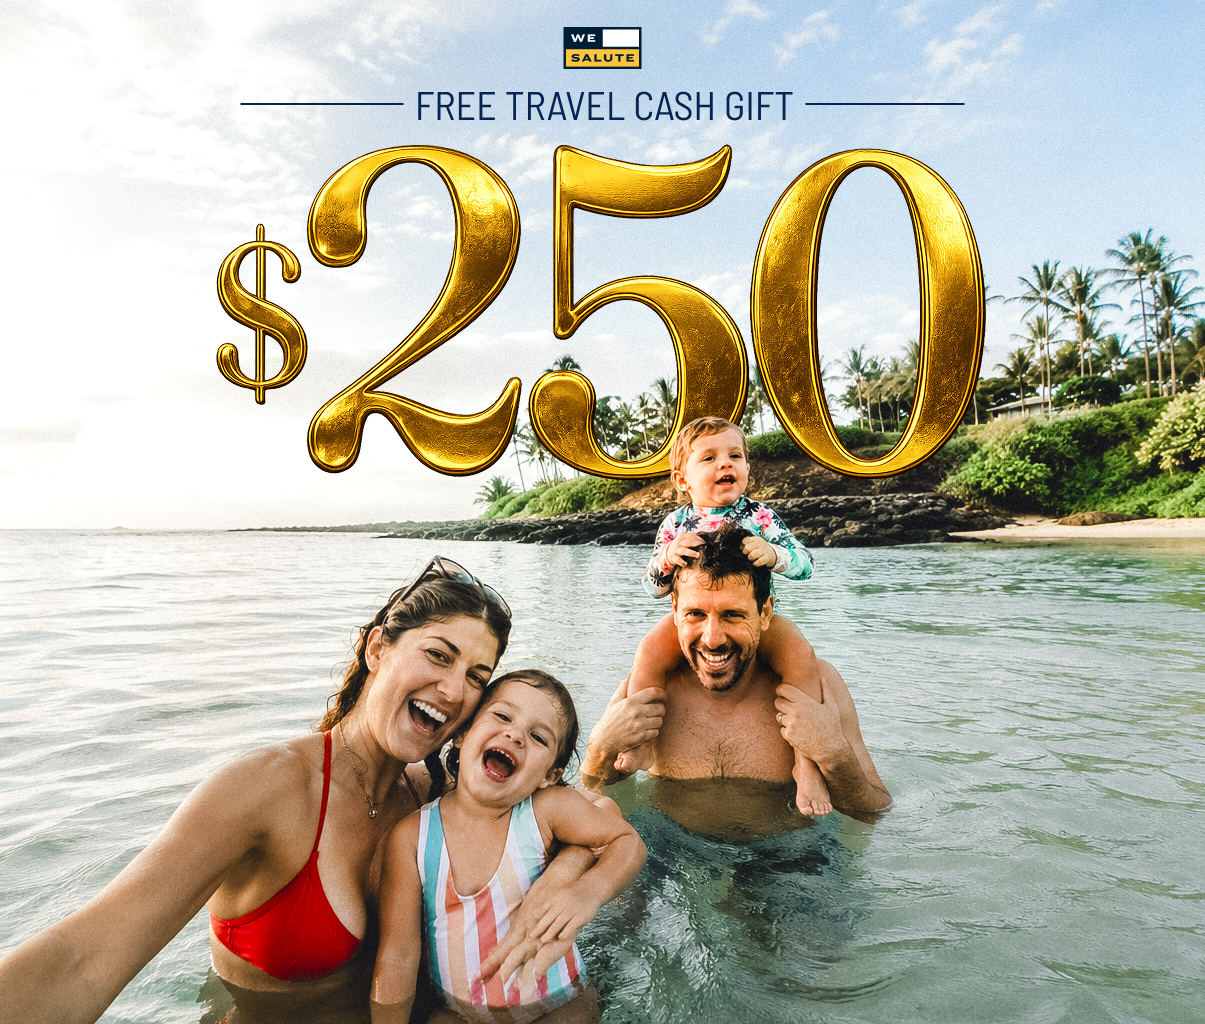
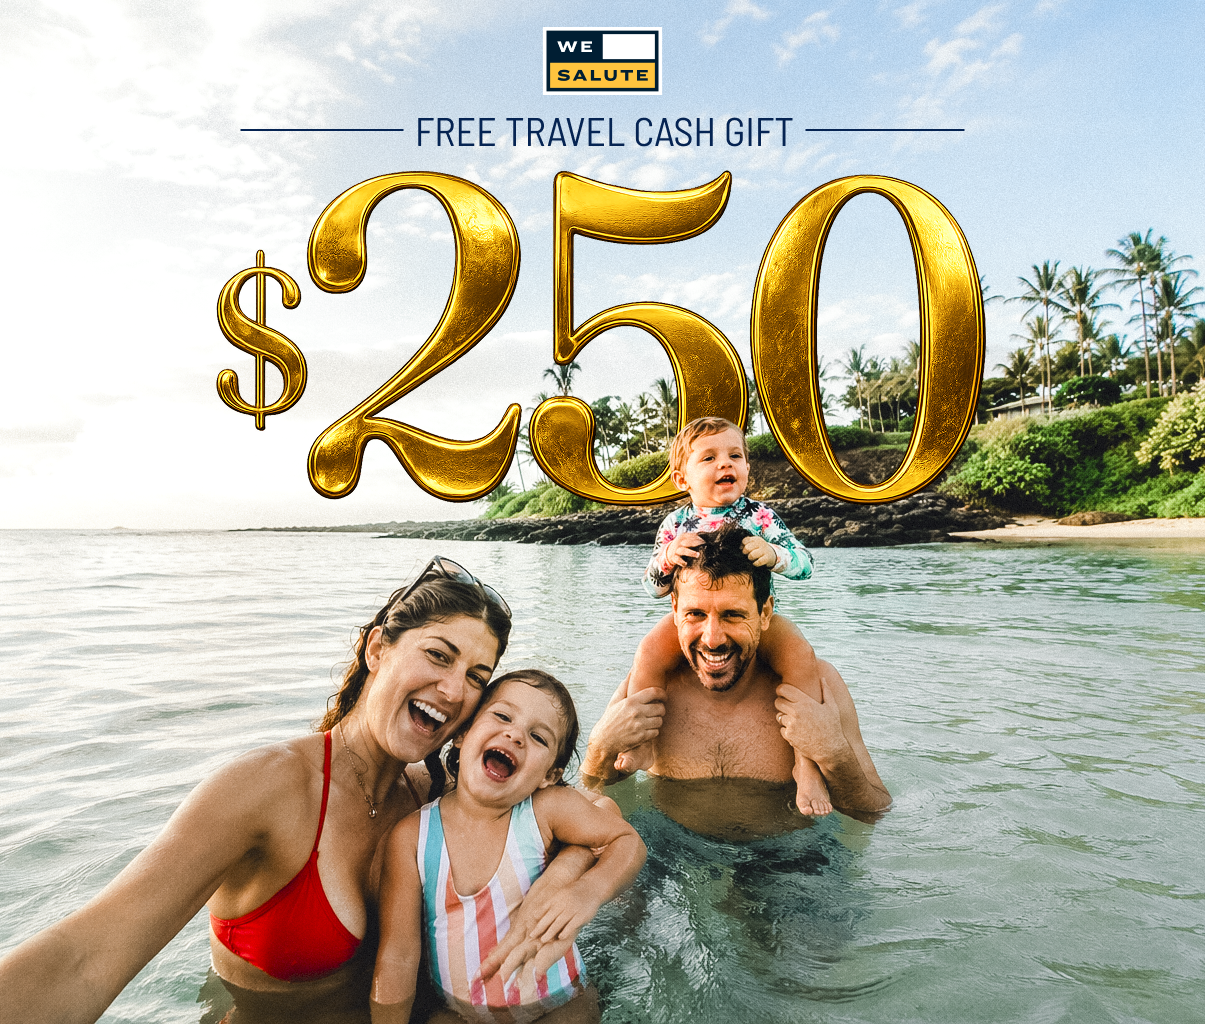
Seven polish updates
1. Replace travel cash image with updated asset (250-travel-cash-NEW.png)
2. Remove 'Offer ends Jul 4, 2026' sub-label from countdown banner
3. Remove '· Exclusive Collaboration' from hero eyebrow
4. Fix pull quote gold line overrun on desktop (alignSelf: start)
5. Remove numbered badges from Seven Communities cards
6. Convert Bloodline timeline box to standard WeSalute gold style
7. Footer: co-branded SVG logo + Instagram/Facebook/X/LinkedIn social links

https://claude.ai/code/session_01U94FxABhpk2zpK6eSU2wwN

Changed region(s): [[0.1535, 0.0, 0.829, 0.5]]

diff --git a/components/Footer.tsx b/components/Footer.tsx
@@ -1,34 +1,101 @@
-import { CoBrandLockup } from "./CoBrandLockup";
 import { Star } from "./Star";
+
+const socialLinks = [
+  {
+    label: "Instagram",
+    href: "https://www.instagram.com/wesalute",
+    icon: (
+      <svg viewBox="0 0 24 24" width={18} height={18} fill="currentColor" aria-hidden>
+        <path d="M12 2.163c3.204 0 3.584.012 4.85.07 3.252.148 4.771 1.691 4.919 4.919.058 1.265.069 1.645.069 4.849 0 3.205-.012 3.584-.069 4.849-.149 3.225-1.664 4.771-4.919 4.919-1.266.058-1.644.07-4.85.07-3.204 0-3.584-.012-4.849-.07-3.26-.149-4.771-1.699-4.919-4.92-.058-1.265-.07-1.644-.07-4.849 0-3.204.013-3.583.07-4.849.149-3.227 1.664-4.771 4.919-4.919 1.266-.057 1.645-.069 4.849-.069zm0-2.163c-3.259 0-3.667.014-4.947.072-4.358.2-6.78 2.618-6.98 6.98-.059 1.281-.073 1.689-.073 4.948 0 3.259.014 3.668.072 4.948.2 4.358 2.618 6.78 6.98 6.98 1.281.058 1.689.072 4.948.072 3.259 0 3.668-.014 4.948-.072 4.354-.2 6.782-2.618 6.979-6.98.059-1.28.073-1.689.073-4.948 0-3.259-.014-3.667-.072-4.947-.196-4.354-2.617-6.78-6.979-6.98-1.281-.059-1.69-.073-4.949-.073zm0 5.838c-3.403 0-6.162 2.759-6.162 6.162s2.759 6.163 6.162 6.163 6.162-2.759 6.162-6.163c0-3.403-2.759-6.162-6.162-6.162zm0 10.162c-2.209 0-4-1.79-4-4 0-2.209 1.791-4 4-4s4 1.791 4 4c0 2.21-1.791 4-4 4zm6.406-11.845c-.796 0-1.441.645-1.441 1.44s.645 1.44 1.441 1.44c.795 0 1.439-.645 1.439-1.44s-.644-1.44-1.439-1.44z" />
+      </svg>
+    ),
+  },
+  {
+    label: "Facebook",
+    href: "https://www.facebook.com/wesalute",
+    icon: (
+      <svg viewBox="0 0 24 24" width={18} height={18} fill="currentColor" aria-hidden>
+        <path d="M24 12.073c0-6.627-5.373-12-12-12s-12 5.373-12 12c0 5.99 4.388 10.954 10.125 11.854v-8.385H7.078v-3.47h3.047V9.43c0-3.007 1.792-4.669 4.533-4.669 1.312 0 2.686.235 2.686.235v2.953H15.83c-1.491 0-1.956.925-1.956 1.874v2.25h3.328l-.532 3.47h-2.796v8.385C19.612 23.027 24 18.062 24 12.073z" />
+      </svg>
+    ),
+  },
+  {
+    label: "X / Twitter",
+    href: "https://x.com/wesalute",
+    icon: (
+      <svg viewBox="0 0 24 24" width={18} height={18} fill="currentColor" aria-hidden>
+        <path d="M18.244 2.25h3.308l-7.227 8.26 8.502 11.24H16.17l-4.714-6.231-5.401 6.231H2.766l7.73-8.835L1.254 2.25H8.08l4.713 6.231zm-1.161 17.52h1.833L7.084 4.126H5.117z" />
+      </svg>
+    ),
+  },
+  {
+    label: "LinkedIn",
+    href: "https://www.linkedin.com/company/wesalute",
+    icon: (
+      <svg viewBox="0 0 24 24" width={18} height={18} fill="currentColor" aria-hidden>
+        <path d="M20.447 20.452h-3.554v-5.569c0-1.328-.027-3.037-1.852-3.037-1.853 0-2.136 1.445-2.136 2.939v5.667H9.351V9h3.414v1.561h.046c.477-.9 1.637-1.85 3.37-1.85 3.601 0 4.267 2.37 4.267 5.455v6.286zM5.337 7.433c-1.144 0-2.063-.926-2.063-2.065 0-1.138.92-2.063 2.063-2.063 1.14 0 2.064.925 2.064 2.063 0 1.14-.925 2.065-2.064 2.065zm1.782 13.019H3.555V9h3.564v11.452zM22.225 0H1.771C.792 0 0 .774 0 1.729v20.542C0 23.227.792 24 1.771 24h20.451C23.2 24 24 23.227 24 22.271V1.729C24 .774 23.2 0 22.222 0h.003z" />
+      </svg>
+    ),
+  },
+] as const;
 
 export function Footer() {
   return (
     <footer
-      className="px-8 py-12 bg-slateDeep"
+      className="px-8 py-10 bg-slateDeep"
       style={{ borderTop: "1px solid #163756" }}
     >
-      <div className="max-w-[1280px] mx-auto flex justify-center md:justify-between items-center flex-wrap gap-6 md:gap-5">
-        <div>
-          <CoBrandLockup height={24} color="#F4F0E6" />
-          <div
-            className="font-mono text-[10px] tracking-[0.24em] text-cream uppercase mt-2.5"
-            style={{ opacity: 0.5 }}
-          >
-            A Public Benefit Corporation · Since 1999
+      <div className="max-w-[1280px] mx-auto">
+        {/* Main row */}
+        <div className="flex flex-col md:flex-row justify-between items-center md:items-start gap-8">
+          {/* Logo + tagline */}
+          <div className="flex flex-col items-center md:items-start gap-2">
+            {/* eslint-disable-next-line @next/next/no-img-element */}
+            <img
+              src="/logos/wesalute-america250.svg"
+              alt="WeSalute × America 250"
+              width={200}
+              height={24}
+              style={{ maxWidth: "100%", height: "auto", opacity: 0.9 }}
+            />
+            <div
+              className="font-mono text-[9px] tracking-[0.26em] text-cream uppercase"
+              style={{ opacity: 0.4 }}
+            >
+              A Public Benefit Corporation · Since 1999
+            </div>
           </div>
-        </div>
 
-        <div className="font-display italic text-[1.1rem] text-gold">
-          A Real Thank You.®
-        </div>
+          {/* Center: tagline */}
+          <div className="font-display italic text-[1.05rem] text-gold text-center">
+            A Real Thank You.®
+          </div>
 
-        <div
-          className="flex items-center gap-2.5 font-mono text-[10px] tracking-[0.24em] text-cream uppercase"
-          style={{ opacity: 0.5 }}
-        >
-          <span>1776</span>
-          <Star size={8} color="#FFC43E" />
-          <span>2026</span>
+          {/* Right: social + date mark */}
+          <div className="flex flex-col items-center md:items-end gap-4">
+            <div className="flex items-center gap-4">
+              {socialLinks.map(({ label, href, icon }) => (
+                <a
+                  key={label}
+                  href={href}
+                  aria-label={label}
+                  target="_blank"
+                  rel="noopener noreferrer"
+                  className="text-cream opacity-50 hover:opacity-100 hover:text-gold transition-all duration-200"
+                >
+                  {icon}
+                </a>
+              ))}
+            </div>
+            <div
+              className="flex items-center gap-2 font-mono text-[9px] tracking-[0.24em] text-cream uppercase"
+              style={{ opacity: 0.35 }}
+            >
+              <span>1776</span>
+              <Star size={7} color="#FFC43E" />
+              <span>2026</span>
+            </div>
+          </div>
         </div>
       </div>
     </footer>

diff --git a/components/SharedHistory.tsx b/components/SharedHistory.tsx
@@ -106,18 +106,14 @@ export function SharedHistory() {
                     </div>
                   ) : (
                     <div
-                      className="p-6 pr-7"
-                      style={{
-                        background: "rgba(142,16,35,0.07)",
-                        border: "1px solid rgba(142,16,35,0.22)",
-                        borderLeft: "3px solid #8E1023",
-                      }}
+                      className="bg-slate text-cream p-6 pr-7"
+                      style={{ borderLeft: "3px solid #FFC43E", boxShadow: "0 8px 24px rgba(0,0,0,0.12)" }}
                     >
-                      <div className="font-mono text-[11px] tracking-[0.28em] text-americaRedDeep uppercase font-semibold mb-2.5 flex items-center gap-2">
-                        <Star size={11} color="#8E1023" />
-                        The Bloodline
+                      <div className="font-mono text-[11px] tracking-[0.28em] text-gold uppercase font-semibold mb-2.5 flex items-center gap-2">
+                        <Star size={11} color="#FFC43E" />
+                        WeSalute
                       </div>
-                      <p className="text-[0.95rem] leading-[1.6] text-slate" style={{ opacity: 0.85 }}>
+                      <p className="text-[0.95rem] leading-[1.6] text-cream" style={{ opacity: 0.95 }}>
                         Scott Higgins, co-founder of WeSalute, is a direct
                         descendant of Captain John Parker — the man who
                         assembled the Lexington militia and gave the order on

diff --git a/components/CountdownBanner.tsx b/components/CountdownBanner.tsx
@@ -87,17 +87,9 @@ export function CountdownBanner() {
             className="pulse-dot inline-block w-2 h-2 rounded-full shrink-0"
             style={{ background: "#B91C1C" }}
           />
-          <div className="flex flex-col leading-none">
-            <span className="font-condensed font-bold text-[1.05rem] tracking-[0.1em] text-cream uppercase">
-              $250 Travel Cash
-            </span>
-            <span
-              className="font-mono text-[9px] tracking-[0.26em] uppercase mt-0.5"
-              style={{ color: "#B91C1C" }}
-            >
-              Offer ends Jul 4, 2026
-            </span>
-          </div>
+          <span className="font-condensed font-bold text-[1.05rem] tracking-[0.1em] text-cream uppercase">
+            $250 Travel Cash
+          </span>
         </div>
 
         {/* Separator */}

diff --git a/components/ThroughLine.tsx b/components/ThroughLine.tsx
@@ -36,7 +36,7 @@ export function ThroughLine() {
         <div className="grid gap-12 mt-12 hero-grid" style={{ gridTemplateColumns: "1fr 1fr" }}>
           <p
             className="font-display italic font-normal text-[1.4rem] leading-[1.5] text-cream pl-6"
-            style={{ borderLeft: "2px solid #FFC43E" }}
+            style={{ borderLeft: "2px solid #FFC43E", alignSelf: "start" }}
           >
             No country lasts 250 years by accident. Every chapter was held
             together by people who put service above self — in uniform, in

diff --git a/components/SevenCommunities.tsx b/components/SevenCommunities.tsx
@@ -99,9 +99,6 @@ export function SevenCommunities() {
                     : "transparent",
               }}
             >
-              <div className="absolute top-4 right-5 font-display font-bold text-[1.4rem] text-gold" style={{ opacity: 0.5 }}>
-                0{i + 1}
-              </div>
               <Star size={20} color="#FFC43E" style={{ marginBottom: "20px" }} />
               <h3 className="font-display font-bold text-[1.4rem] text-cream mb-2.5 leading-[1.15]">
                 {comm.name}

diff --git a/components/Hero.tsx b/components/Hero.tsx
@@ -42,9 +42,7 @@ export function Hero() {
         {/* Left — copy */}
         <div>
           <div className="reveal reveal-1">
-            <Eyebrow color="#FFC43E">
-              WeSalute × America 250 · Exclusive Collaboration
-            </Eyebrow>
+            <Eyebrow color="#FFC43E">WeSalute × America 250</Eyebrow>
           </div>
 
           <h1
